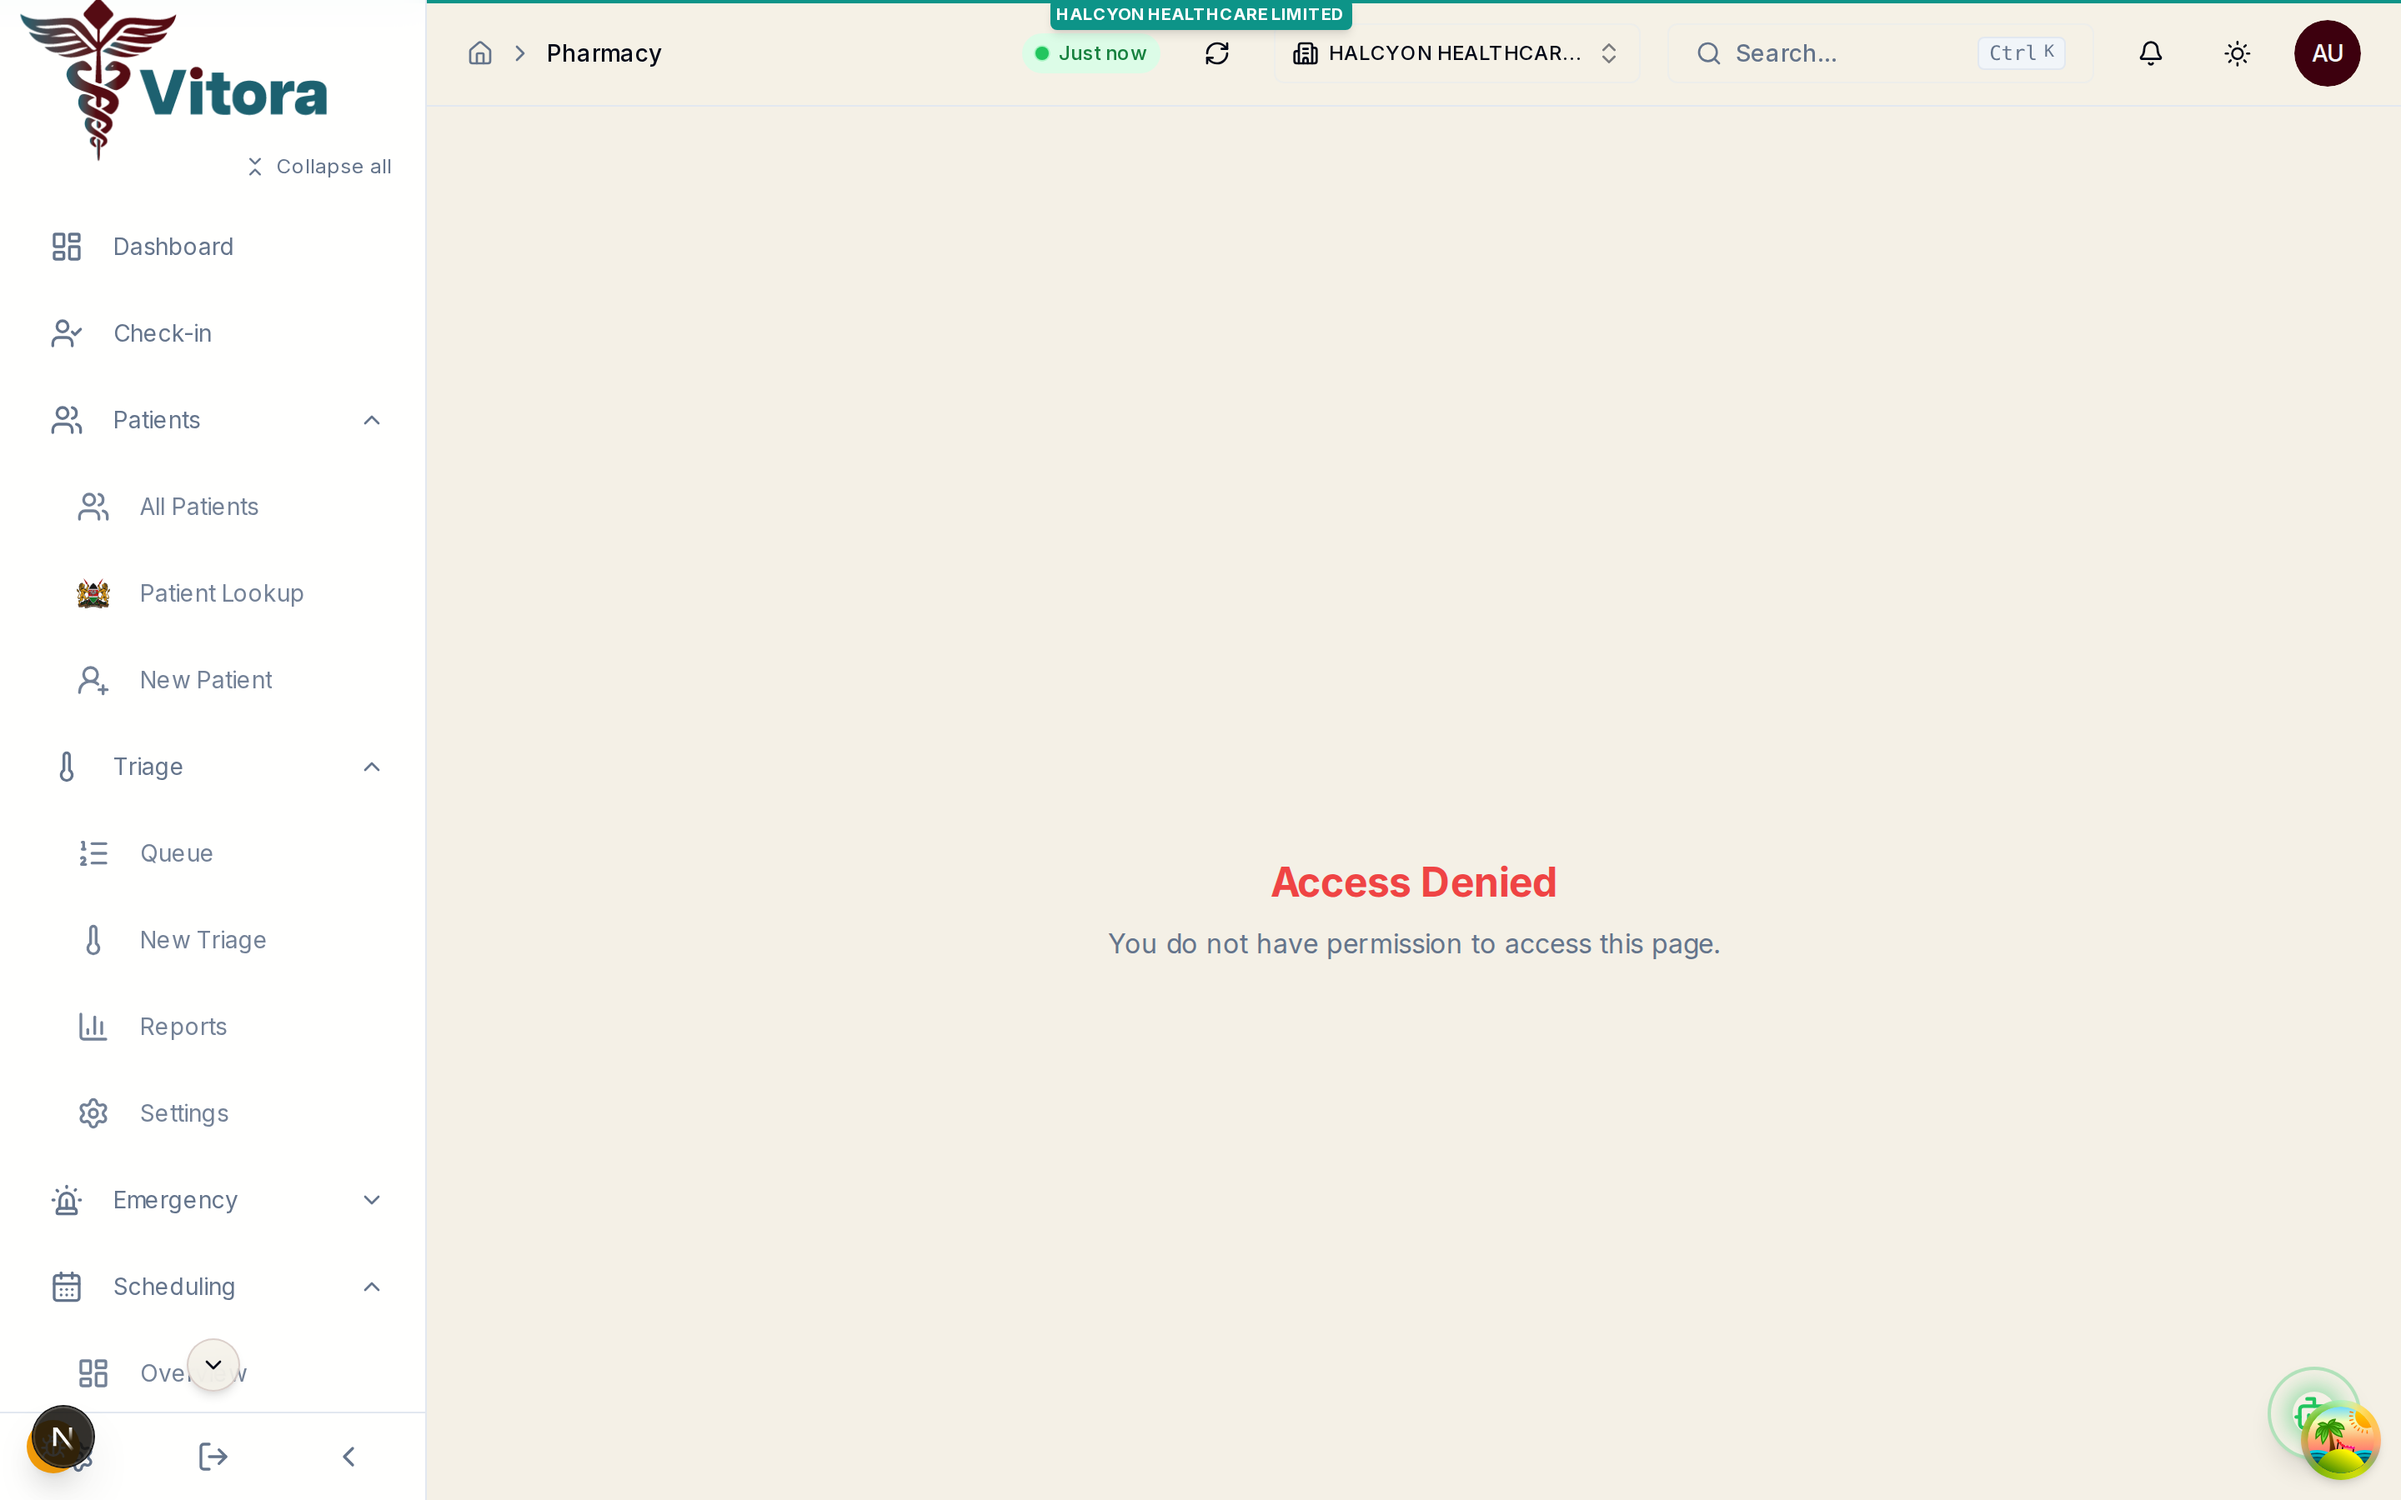
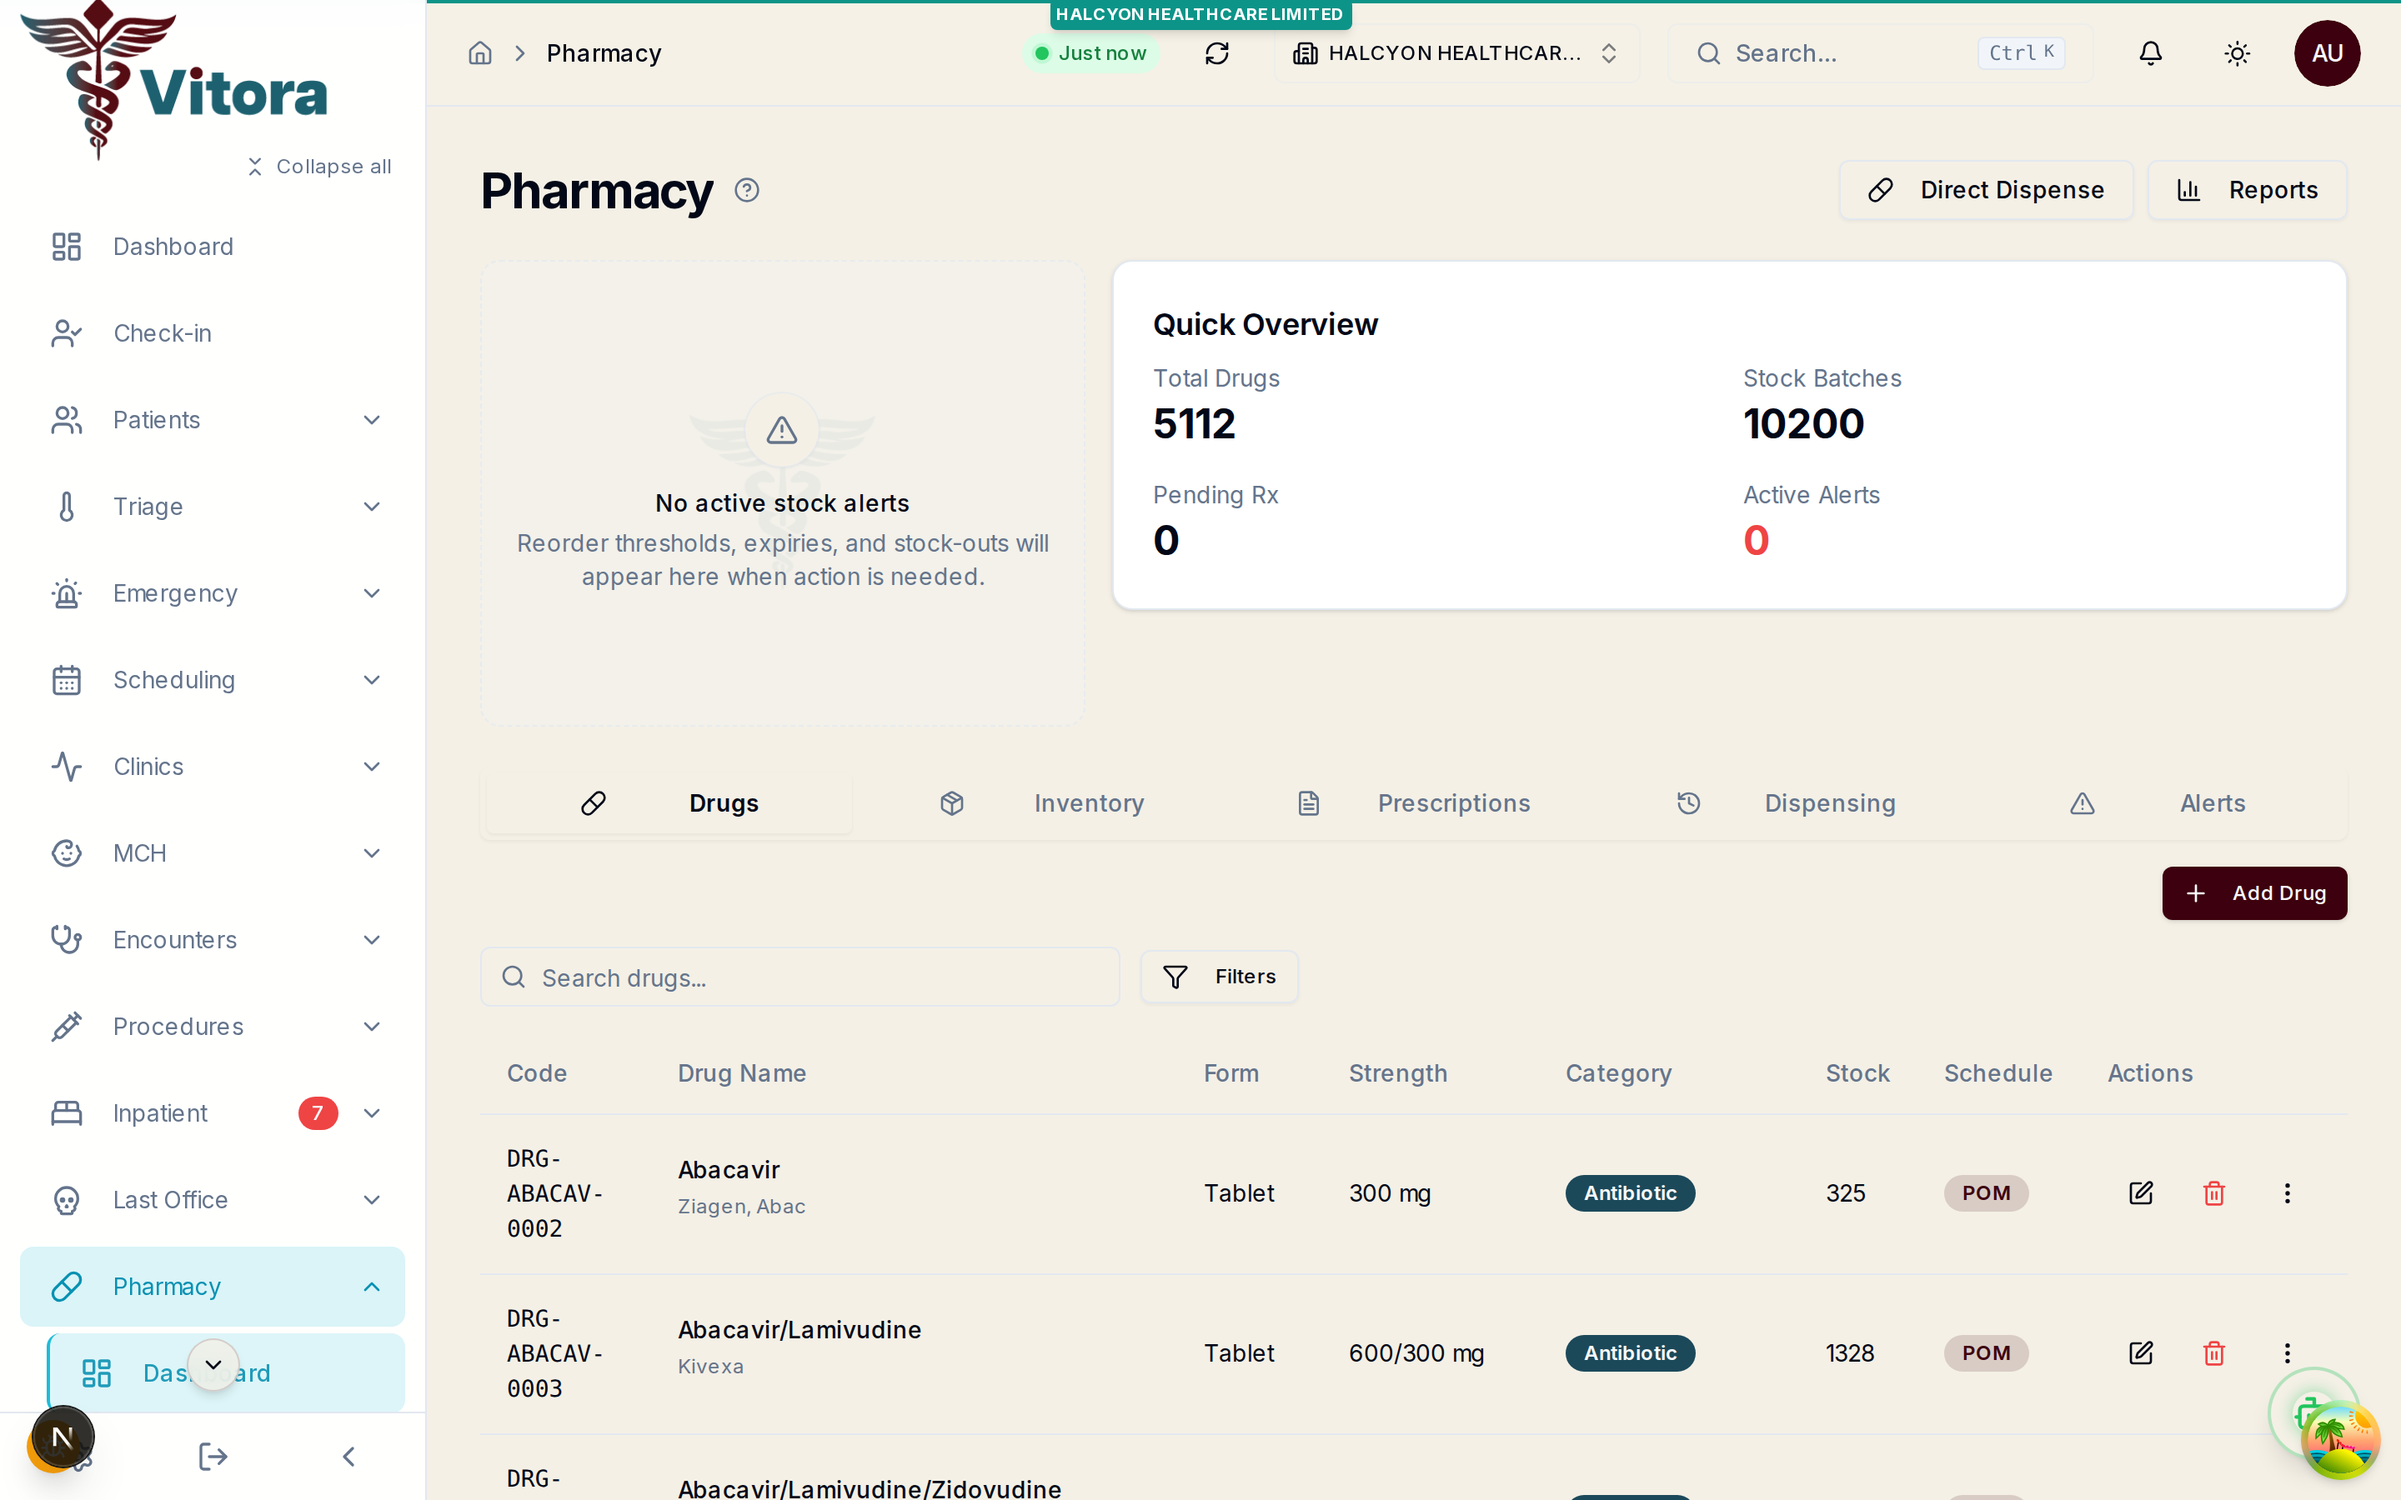
feat: update feature and integration pages with improved messaging and add new screenshots for enhanced clarity

diff --git a/app/features/page.tsx b/app/features/page.tsx
@@ -201,10 +201,10 @@ export default function FeaturesPage() {
         <div className="container mx-auto px-4 sm:px-6 lg:px-8">
           <div className="max-w-3xl mx-auto text-center mb-12">
             <h2 className="text-3xl font-bold text-brand-burgundy dark:text-white sm:text-4xl">
-              See the Modules in Action
+              What Your Team Actually Uses
             </h2>
             <p className="mt-4 text-lg text-muted-foreground">
-              Real screenshots from the Vitora platform — not mockups.
+              Every screen below is from a live Vitora instance running at a Kenyan facility.
             </p>
           </div>
           <div className="grid gap-8 md:grid-cols-2 max-w-6xl mx-auto">
@@ -214,6 +214,7 @@ export default function FeaturesPage() {
               { src: '/assets/images/screenshots/billing.png', label: 'Billing & Invoicing', alt: 'Vitora billing module with invoicing and payment tracking' },
               { src: '/assets/images/screenshots/pharmacy.png', label: 'Pharmacy', alt: 'Vitora pharmacy management with prescriptions and stock' },
               { src: '/assets/images/screenshots/laboratory.png', label: 'Laboratory', alt: 'Vitora laboratory module with order tracking and results' },
+              { src: '/assets/images/screenshots/appointments.png', label: 'Appointments', alt: 'Vitora appointment scheduling with patient bookings and calendar' },
               { src: '/assets/images/screenshots/scheduling-roster.png', label: 'Staff Scheduling', alt: 'Vitora staff scheduling with weekly roster grid' },
             ].map((item) => (
               <div key={item.label} className="group">
@@ -271,10 +272,10 @@ export default function FeaturesPage() {
       <section className="py-16 bg-gradient-hero fade-from-bg">
         <div className="container mx-auto px-4 sm:px-6 lg:px-8 text-center">
           <h2 className="text-3xl font-bold text-brand-burgundy dark:text-white sm:text-4xl">
-            Ready to See It in Action?
+            Walk Through Your Workflow
           </h2>
           <p className="mt-4 text-lg text-muted-foreground dark:text-white/90 max-w-2xl mx-auto">
-            Book a demo and we&apos;ll walk through the workflows that matter most to your facility.
+            Pick your departments — we&apos;ll demo those modules with your actual patient flow.
           </p>
           <div className="mt-8 flex flex-col sm:flex-row gap-4 justify-center">
             <Link

diff --git a/app/solutions/specialized/page.tsx b/app/solutions/specialized/page.tsx
@@ -152,6 +152,41 @@ export default function SpecializedPage() {
         </div>
       </section>
 
+      {/* Product Screenshots */}
+      <section className="py-16 bg-background fade-to-muted">
+        <div className="container mx-auto px-4 sm:px-6 lg:px-8">
+          <div className="max-w-3xl mx-auto text-center mb-12">
+            <h2 className="text-3xl font-bold text-brand-burgundy dark:text-white sm:text-4xl">
+              Your Practice, Your Screens
+            </h2>
+            <p className="mt-4 text-lg text-muted-foreground">
+              Appointments, records, and billing — configured for your specialty.
+            </p>
+          </div>
+          <div className="grid gap-8 md:grid-cols-2 max-w-5xl mx-auto">
+            {[
+              { src: '/assets/images/screenshots/appointments.png', label: 'Appointment Scheduling', alt: 'Vitora appointment scheduling with patient bookings' },
+              { src: '/assets/images/screenshots/patients-list.png', label: 'Patient Records', alt: 'Vitora patient list with search and demographics' },
+              { src: '/assets/images/screenshots/billing.png', label: 'Billing & Invoicing', alt: 'Vitora billing with SHA claims and cash payments' },
+              { src: '/assets/images/screenshots/clinics.png', label: 'Clinic Management', alt: 'Vitora clinic configuration and session management' },
+            ].map((item) => (
+              <div key={item.label} className="group">
+                <div className="rounded-xl border bg-card shadow-card overflow-hidden group-hover:shadow-hover transition-shadow">
+                  <Image
+                    src={item.src}
+                    alt={item.alt}
+                    width={1440}
+                    height={900}
+                    className="w-full h-auto"
+                  />
+                </div>
+                <p className="mt-3 text-sm font-medium text-center text-muted-foreground">{item.label}</p>
+              </div>
+            ))}
+          </div>
+        </div>
+      </section>
+
       {/* Bottom CTA */}
       <section className="py-16 bg-gradient-hero fade-from-bg">
         <div className="container mx-auto px-4 sm:px-6 lg:px-8 text-center">

diff --git a/app/integrations/page.tsx b/app/integrations/page.tsx
@@ -192,10 +192,10 @@ export default function IntegrationsPage() {
         <div className="container mx-auto px-4 sm:px-6 lg:px-8">
           <div className="max-w-3xl mx-auto text-center mb-12">
             <h2 className="text-3xl font-bold text-brand-burgundy dark:text-white sm:text-4xl">
-              And Many More
+              Also Supported
             </h2>
             <p className="mt-4 text-lg text-muted-foreground">
-              Vitora HMIS is built to integrate with the tools you already use.
+              Standards-based connectors for lab equipment, messaging, and health information exchange.
             </p>
           </div>
 
@@ -240,7 +240,7 @@ export default function IntegrationsPage() {
             See Our Integrations in Action
           </h2>
           <p className="mt-4 text-lg text-muted-foreground dark:text-white/90 max-w-2xl mx-auto">
-            Schedule a demo to see how Vitora HMIS integrates seamlessly with Kenya&apos;s healthcare ecosystem.
+            We&apos;ll connect to your SHA portal, demonstrate KHIS reporting, and walk through payment flows.
           </p>
           <div className="mt-8 flex flex-col sm:flex-row gap-4 justify-center">
             <Link

diff --git a/app/pricing/page.tsx b/app/pricing/page.tsx
@@ -99,7 +99,7 @@ const addOns = [
     name: 'Laboratory Information System (LIS)',
     price: 'KES 7,000/mo',
     description:
-      'Manage laboratory workflows, results, and reporting efficiently. Integrates seamlessly with existing hospital systems.',
+      'Manage laboratory workflows, results, and reporting efficiently. Connects to analyzers, auto-bills on completion, and pushes results to clinicians.',
   },
   {
     name: 'SMS & WhatsApp Reminders',
@@ -262,7 +262,7 @@ export default function PricingPage() {
                 Can I upgrade later?
               </h3>
               <p className="mt-1 text-sm text-muted-foreground">
-                Yes. Upgrade anytime — your data carries over seamlessly.
+                Yes. Upgrade anytime — all patient records, encounters, and billing history carry over automatically.
               </p>
             </div>
 

diff --git a/app/solutions/clinics/page.tsx b/app/solutions/clinics/page.tsx
@@ -165,10 +165,10 @@ export default function ClinicsPage() {
         <div className="container mx-auto px-4 sm:px-6 lg:px-8">
           <div className="max-w-3xl mx-auto text-center mb-12">
             <h2 className="text-3xl font-bold text-brand-burgundy dark:text-white sm:text-4xl">
-              See It in Action
+              Your Daily Workflow, Digitized
             </h2>
             <p className="mt-4 text-lg text-muted-foreground">
-              Real screenshots from the Vitora platform — designed for outpatient clinic workflows.
+              Registration to billing in four screens — here&apos;s what an outpatient visit looks like.
             </p>
           </div>
           <div className="grid gap-8 md:grid-cols-2 max-w-5xl mx-auto">

diff --git a/app/solutions/hospitals/page.tsx b/app/solutions/hospitals/page.tsx
@@ -192,10 +192,10 @@ export default function HospitalsPage() {
         <div className="container mx-auto px-4 sm:px-6 lg:px-8">
           <div className="max-w-3xl mx-auto text-center mb-12">
             <h2 className="text-3xl font-bold text-brand-burgundy dark:text-white sm:text-4xl">
-              Built for Hospital-Scale Operations
+              Every Department, One Dashboard
             </h2>
             <p className="mt-4 text-lg text-muted-foreground">
-              Real screenshots from the Vitora platform.
+              From admissions to discharge — here&apos;s what each team sees.
             </p>
           </div>
           <div className="grid gap-8 md:grid-cols-2 max-w-5xl mx-auto">

diff --git a/app/page.tsx b/app/page.tsx
@@ -225,7 +225,7 @@ export default function HomePage() {
               See Every Module
             </h2>
             <p className="mt-4 text-lg text-muted-foreground">
-              Real product screenshots — not mockups. This is exactly what your staff will use.
+              What your staff sees on Day 1 — from registration to discharge.
             </p>
           </div>
           <div className="grid gap-6 sm:grid-cols-2 lg:grid-cols-3 max-w-6xl mx-auto">
